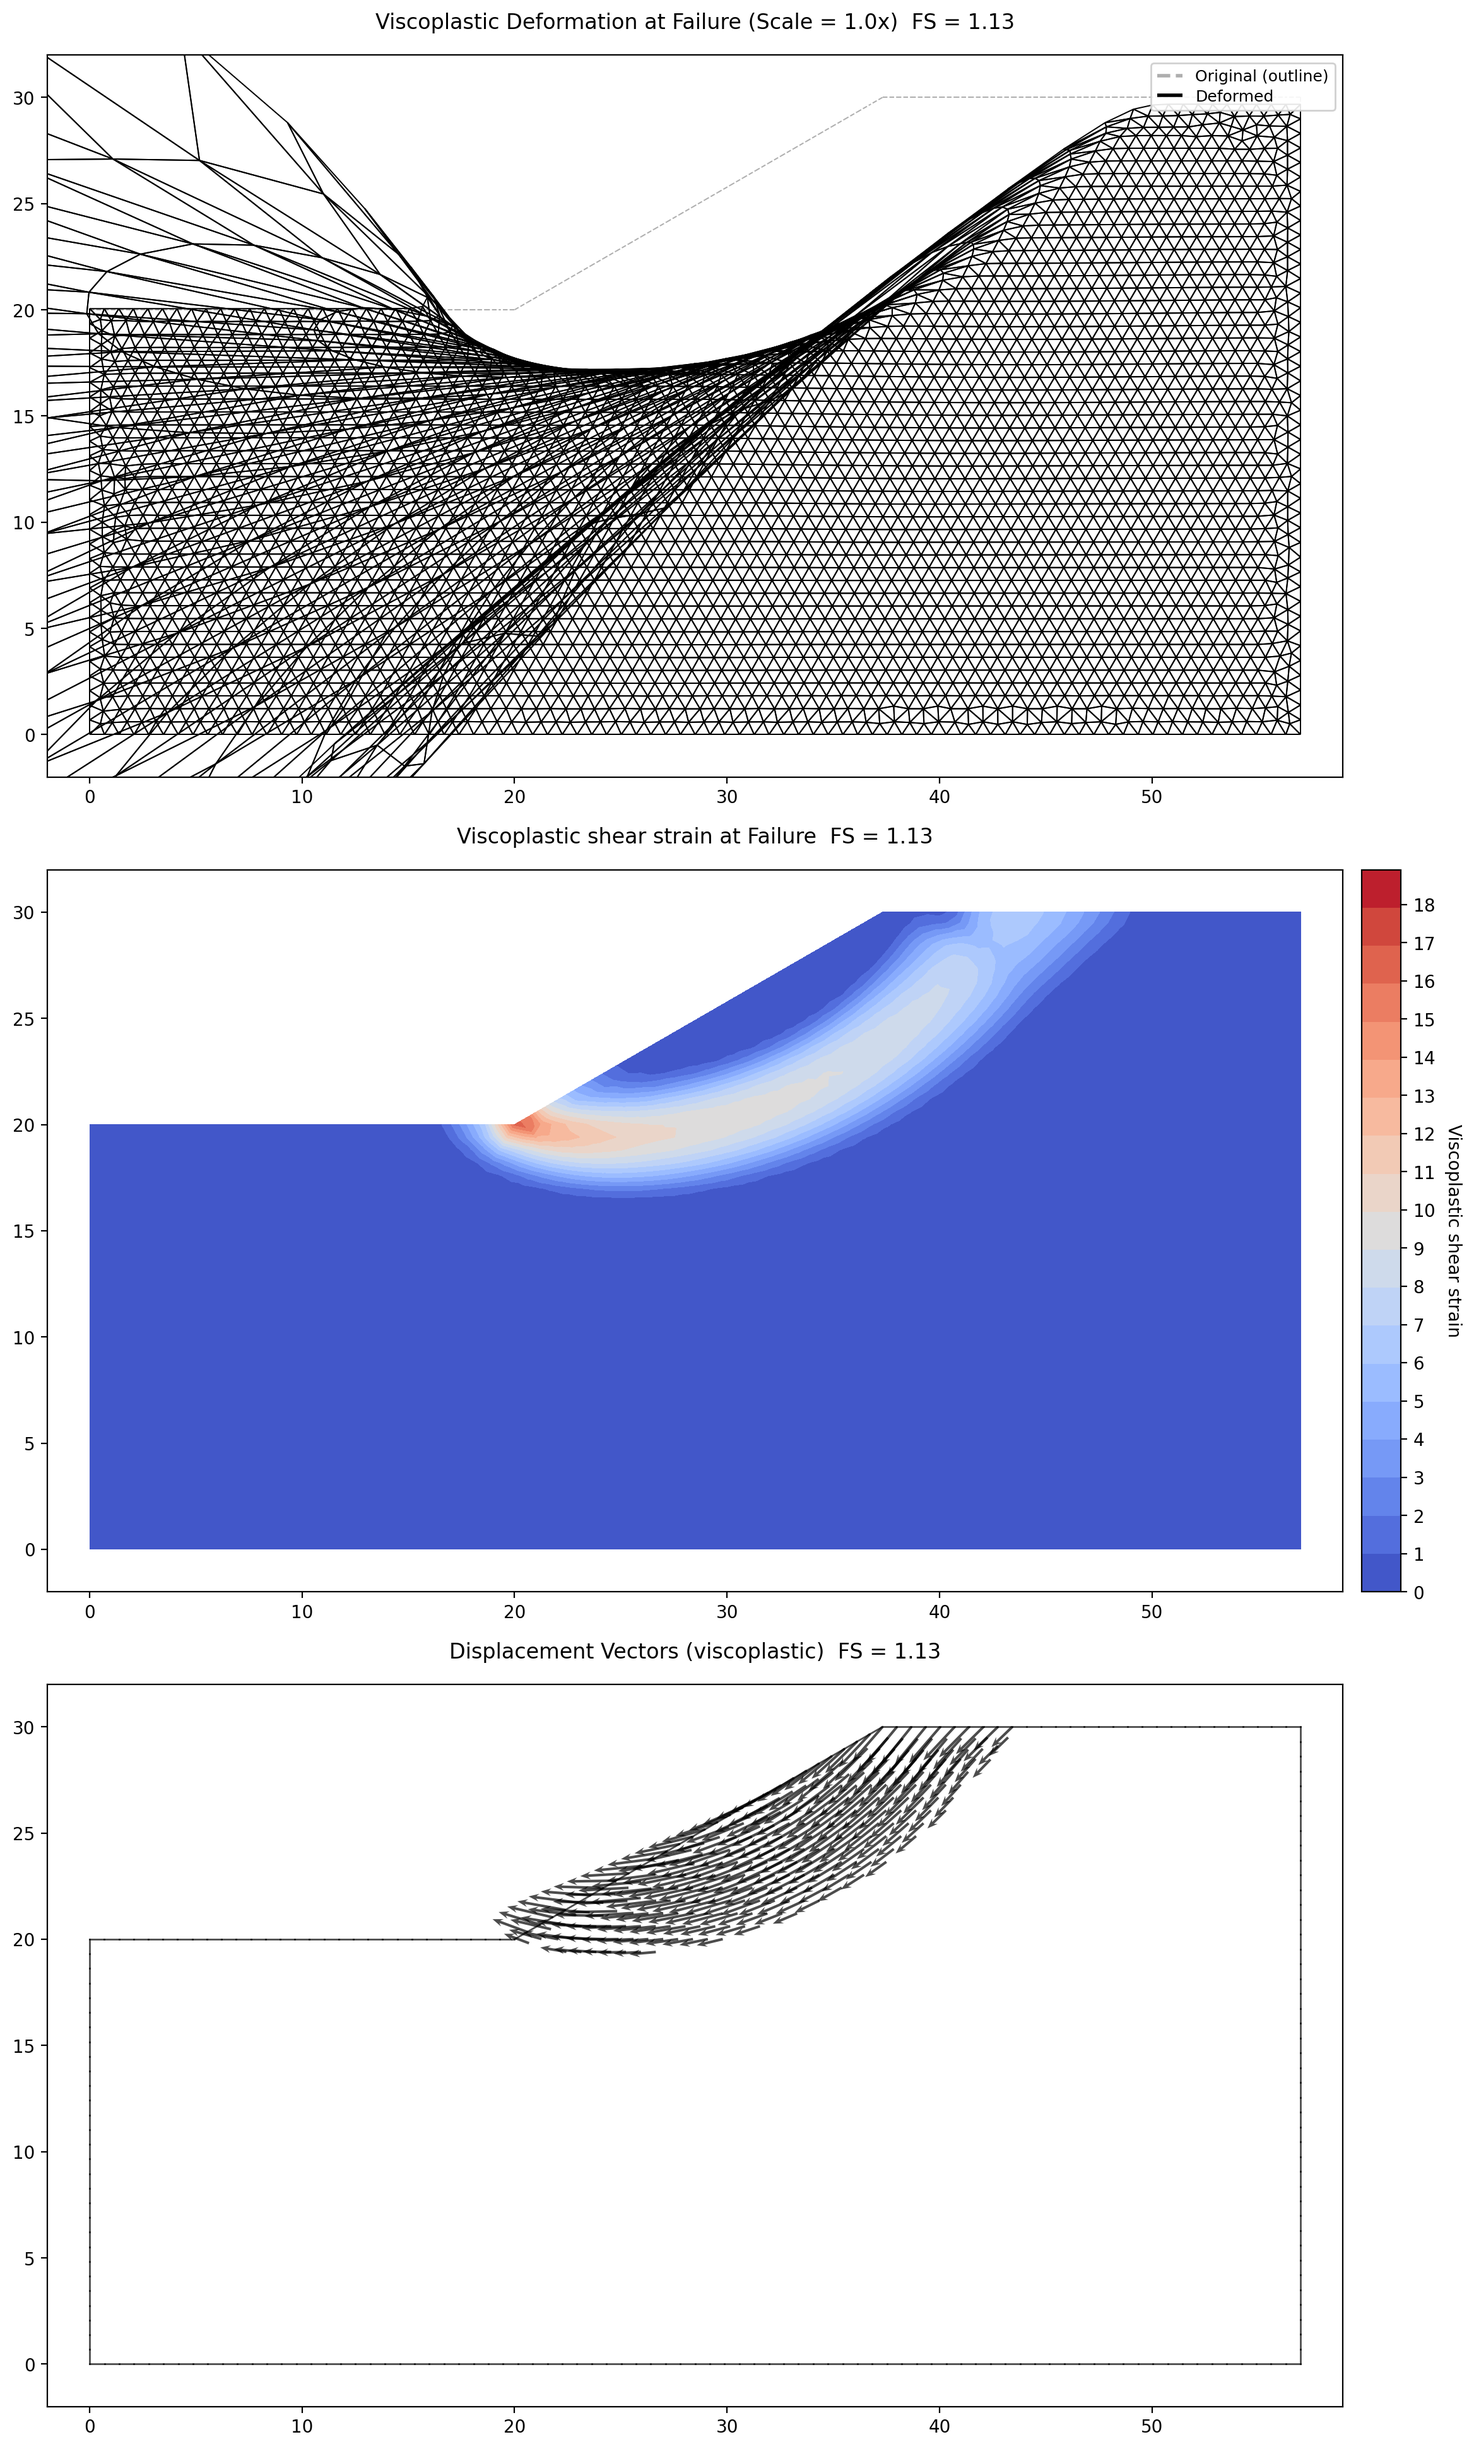
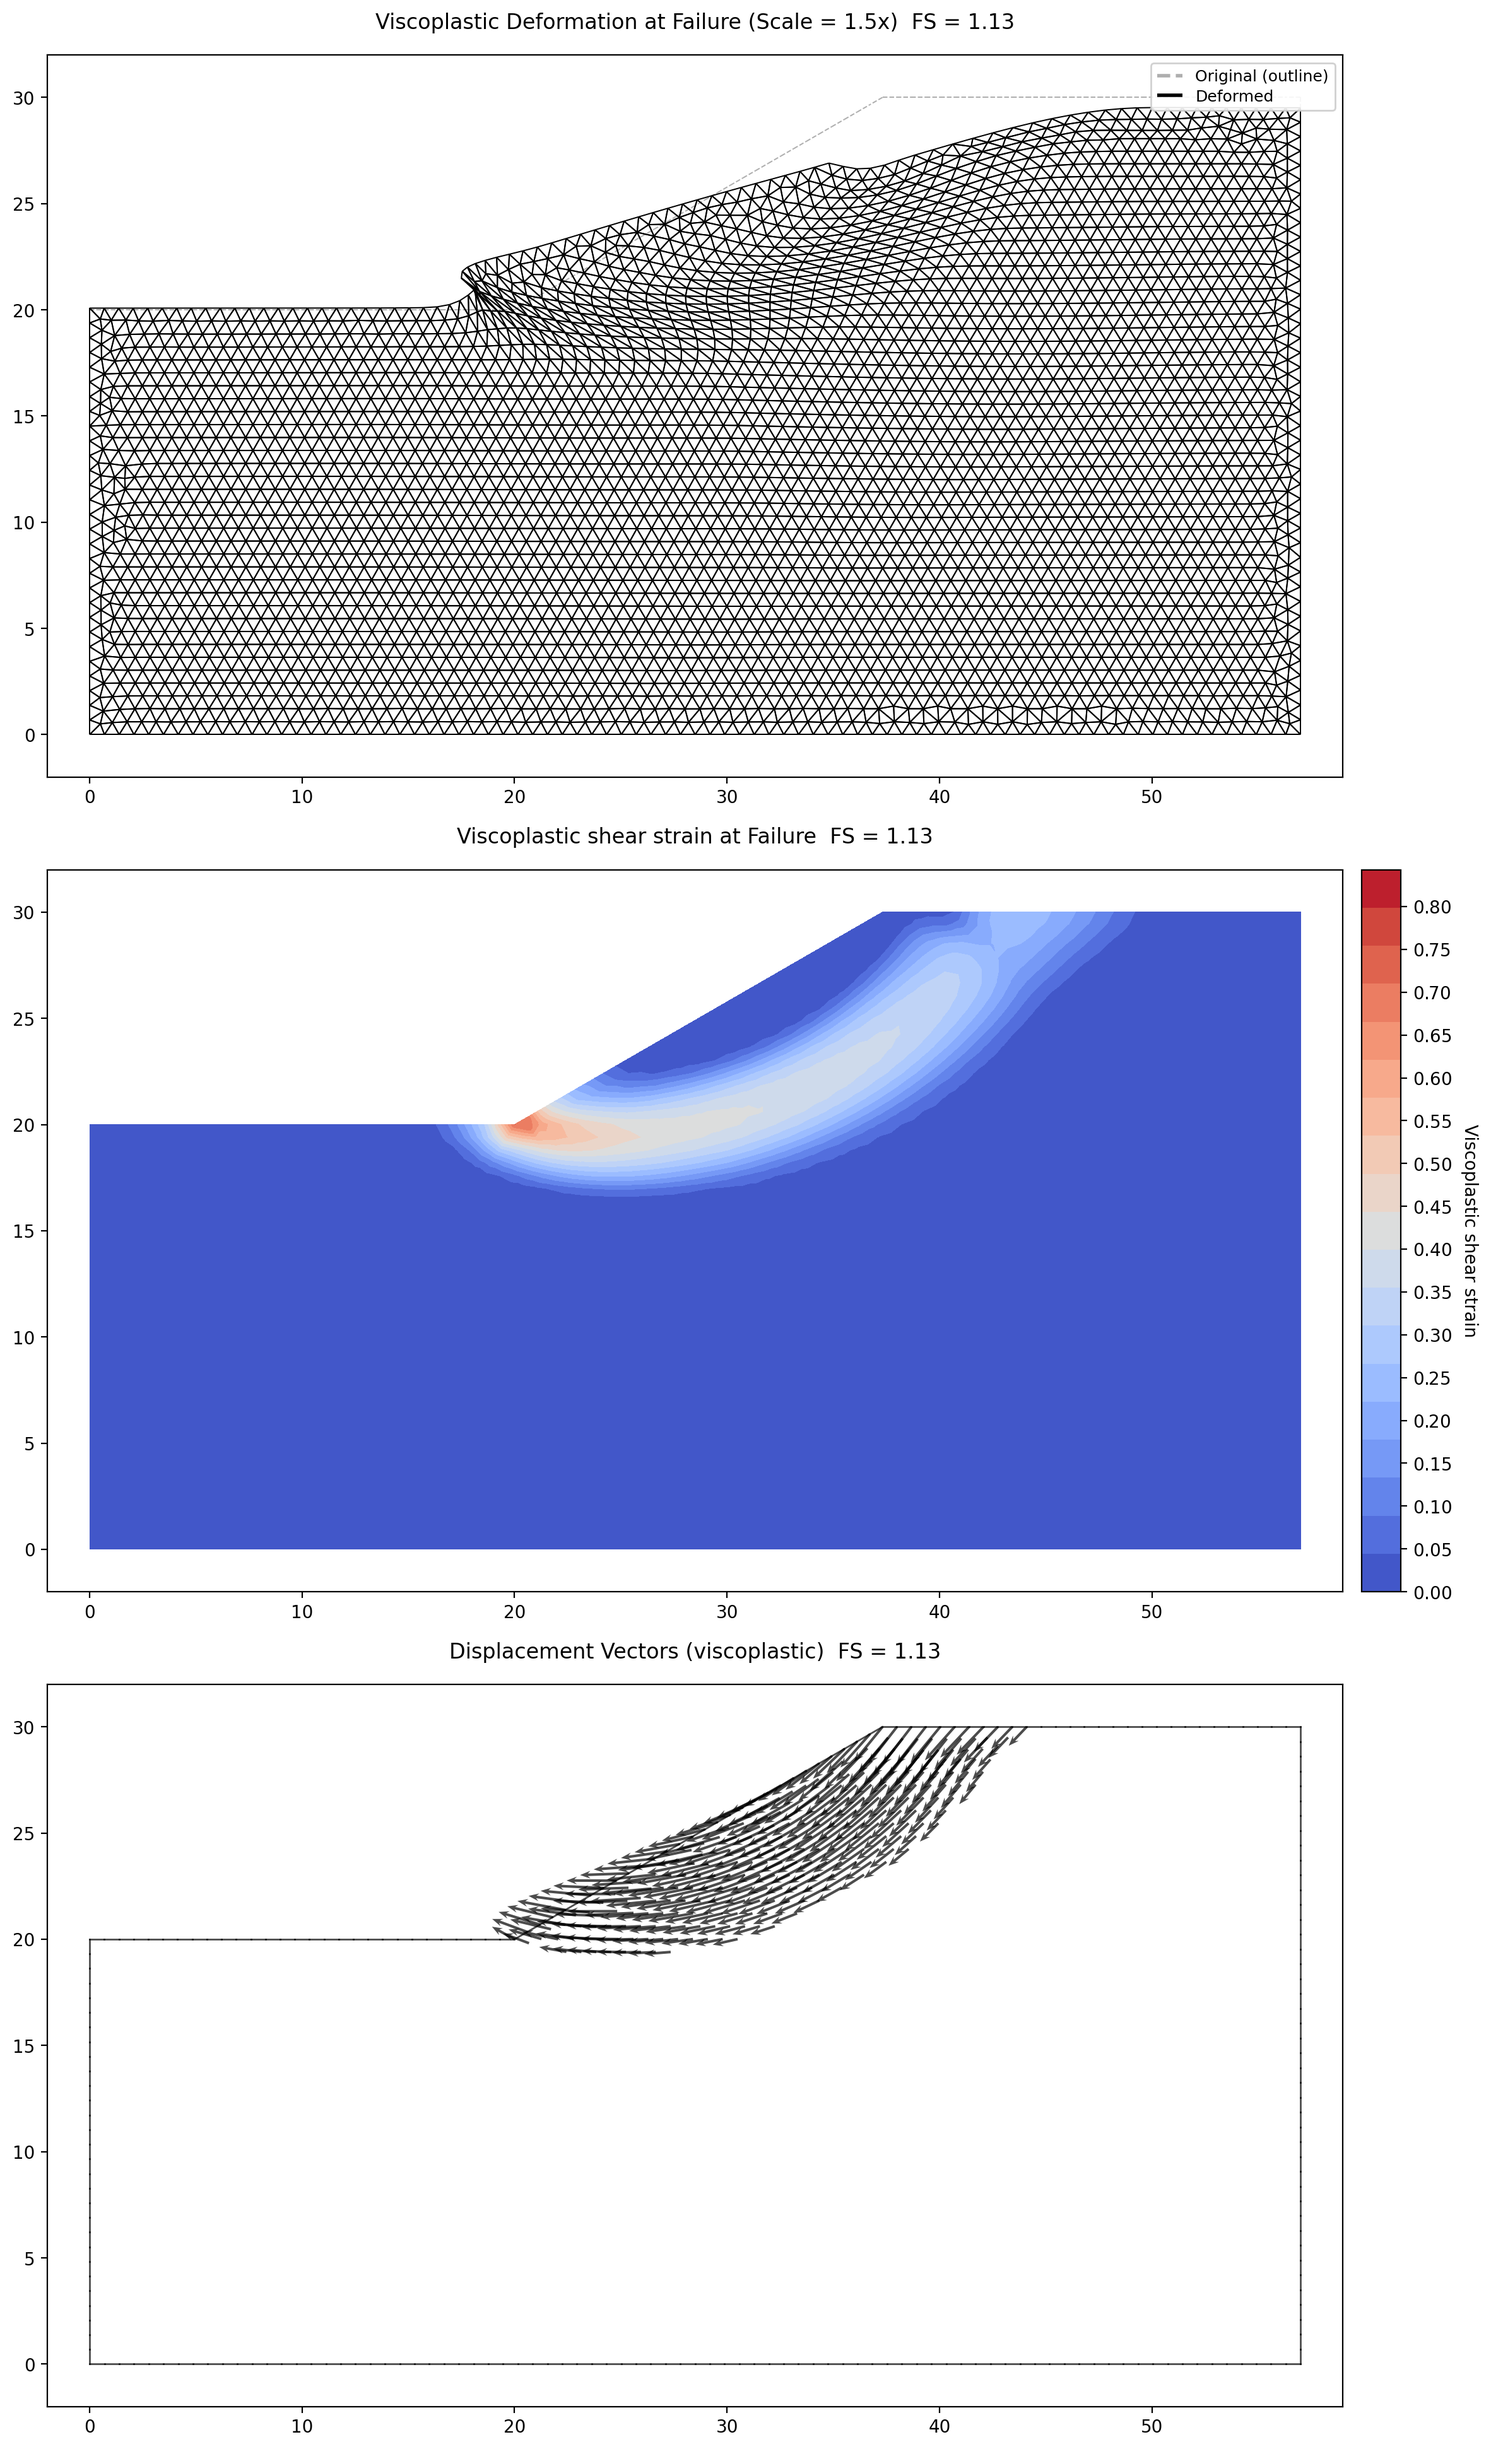
fix(torggler): the §3 results figures are drawn on a mechanism, not on a runaway
Past critical the slope has no equilibrium, so the unconverged viscoplastic
run has no stopping point of its own: displacement grows with iteration
count. solve_ssrm's built-in capture runs to the iteration ceiling with the
displacement limit off, which in Torggler's §3 clay — fifty times softer
than the Griffiths soils at E = 2,000 kPa — travelled tens of metres. Both
§3 figures showed the consequences: a deformed mesh sprayed outside its own
domain, peak viscoplastic shear strains of 18 and 23 where the production
figures read ~0.8, and a plate drawn at (0-9, 11-12) when the plate stands
at x = 28.66 between y = 17.5 and 25.

The generator now captures that field itself: one solve_fem at the same
strength solve_ssrm would have used, with the displacement limit left ON at
its default fraction of mesh height — the solver's own threshold for "the
slope has physically failed", the one every SSRM trial is judged by. The
mechanism is drawn at the same stage of development however stiff the soil.

§3 now reads peak strain 0.85 (unsupported) and 0.60 (with plate) at a 1.5x
exaggeration, mesh inside the domain, and the deformed plate at its own
station moving downslope with the mass. The §4 figures and both mesh
figures regenerate byte-identical — there the displacement limit never
binds — and a second consecutive run reproduces all four PNGs byte for
byte. Every case still solves to its locked FS: 1.1289, 1.1867, 1.0641,
1.2766.
[…]

diff --git a/benchmarks/make_torggler_figures.py b/benchmarks/make_torggler_figures.py
@@ -7,13 +7,32 @@ Two figures per case, both through the production plot path at its defaults:
                               with the displacement boundary conditions and the
                               plate drawn.
   ``<prefix>_results.png``  — plot_fem_results at its default three panels,
-                              rendered from the at-failure field solve_ssrm
-                              captures, with the locked FS in the titles.
+                              rendered from an at-failure field, with the locked
+                              FS in the titles.
 
 Like the Griffiths generator, the cases come from the page's own ``fem_ssrm``
 tags rather than a second list here, so a figure is always drawn on the mesh and
 F-bracket its lock runs, and a retagged mesh size cannot leave a stale figure
 behind.
+
+THE AT-FAILURE FIELD
+--------------------
+Beyond the critical strength reduction factor the slope has no equilibrium, so
+the viscoplastic run does not converge: its displacement grows with iteration
+count and the field has no stopping point of its own.  ``solve_ssrm``'s built-in
+capture runs that solve to its iteration ceiling with the displacement limit
+switched OFF, which lands wherever the soil's stiffness happens to put it.  In
+the Griffiths cases the answer is a developed mechanism; in Torggler's §3 clay,
+which is fifty times softer (E = 2,000 kPa), the same run travels tens of metres
+— a "deformed" mesh drawn well outside its own domain, a plate drawn nowhere
+near its station, and shear strains an order of magnitude past the mechanism.
+
+So the capture is done here instead, by one ``solve_fem`` at the same strength
+``solve_ssrm`` would have used, but with the displacement limit left ON at its
+default fraction of mesh height — the solver's own "the slope has physically
+failed" threshold, the one every SSRM trial is judged by.  The mechanism is then
+drawn at the same stage of development in every case, however stiff the soil is,
+and the figure cannot outrun the mesh it is drawn on.
 
 Each solve costs several minutes. Pass prefixes to render a subset.
 
@@ -37,7 +56,7 @@ import matplotlib.pyplot as plt
 
 import run_tests as RT
 from xslope.fileio import load_slope_data
-from xslope.fem import build_fem_data, solve_ssrm
+from xslope.fem import build_fem_data, solve_fem, solve_ssrm
 import xslope.fem as _fem
 from xslope.mesh import (get_material_polygons, build_mesh_from_polygons,
                          extract_constraint_line_geometry, extract_point_constraints,
@@ -54,6 +73,29 @@ DPI = 200
 # where the plate sits in it.
 MESH_FIGURE = {'xslope_torggler_3a_plate': 'torggler_3a',
                'xslope_torggler_3b_plate': 'torggler_3b'}
+
+# The strength margin above critical the failure field is captured at, and the
+# keys solve_ssrm strips before handing fem_data to a trial (it has already
+# resolved those options and passes them explicitly, so leaving them on the dict
+# would let solve_fem resolve them a second time). Both mirror solve_ssrm so the
+# capture below is the run's own capture in everything except the displacement
+# limit.
+CAPTURE_MARGIN = 0.15
+TRIAL_STRIPPED = ('tension_cutoff_by_material', 'elastic_materials', 'k0',
+                  'tension_srf', 'ssr_zones')
+
+
+def capture_failure(fem_data, result, max_iterations):
+    """The at-failure field the results panels are drawn from: one unconverged
+    solve just beyond critical, stopped by the displacement limit rather than by
+    an iteration count (see THE AT-FAILURE FIELD above)."""
+    trials = {k: v for k, v in fem_data.items() if k not in TRIAL_STRIPPED}
+    f_fail = max(result['final_interval'][1], result['FS'] * (1.0 + CAPTURE_MARGIN))
+    with contextlib.redirect_stdout(io.StringIO()):
+        with RT._force_fast_kernel(_fem, False):
+            return f_fail, solve_fem(trials, F=f_fail, debug_level=0,
+                                     max_iterations=max(max_iterations, 3000),
+                                     early_exit=False, fast_kernel=False)
 
 
 def figure_tags():
@@ -95,13 +137,17 @@ def render(tag):
     with contextlib.redirect_stdout(io.StringIO()):
         with RT._force_fast_kernel(_fem, False):
             result = solve_ssrm(fem_data, debug_level=0,
-                                capture_failure_state=True, **options, **kwargs)
+                                capture_failure_state=False, **options, **kwargs)
     if not result.get('converged', False) or result.get('last_solution') is None:
         print(f'  {name}: SSRM did not converge — no figure written', flush=True)
         return
+    f_fail, failure = capture_failure(fem_data, result,
+                                      kwargs.get('max_iterations', 3000))
+    print(f'  at-failure field: F={f_fail:.3f}  iterations={failure["iterations"]}  '
+          f'max|u|={failure["max_displacement"]:.3g}', flush=True)
     with contextlib.redirect_stdout(io.StringIO()):
         plot_fem_results(fem_data, result['last_solution'], fs=result['FS'],
-                         failure_solution=result.get('failure_solution'))
+                         failure_solution=failure)
     prefix = name.replace('xslope_', '')
     path = os.path.join(OUT, f'{prefix}_results.png')
     plt.gcf().savefig(path, dpi=DPI, bbox_inches='tight')

diff --git a/benchmarks/gen_fs_tables.py b/benchmarks/gen_fs_tables.py
@@ -30,6 +30,9 @@ from xslope.fileio import load_slope_data
 from xslope.slice import generate_slices
 from xslope.search import (circular_search, noncircular_search, file_search_window,
                            noncircular_search_opts)
+from xslope.solve import solve_selected
+
+SAMPLES_MD = "docs/lem/samples.md"
 
 # Search-window keys a tag may carry. They say which mechanism the problem is
 # about, so they are run WITH the search and written back INTO the rebuilt tag;
@@ -37,9 +40,6 @@ from xslope.search import (circular_search, noncircular_search, file_search_wind
 # other surface's and delete the statement that it was ever windowed.
 WINDOW_KEYS = ('entry_range', 'exit_range', 'tangent_depth', 'center_box',
                'min_slip_depth')
-from xslope.solve import solve_selected
-
-SAMPLES_MD = "docs/lem/samples.md"
 
 # Display order; short tag name -> (solver name, column header).
 METHODS = [
